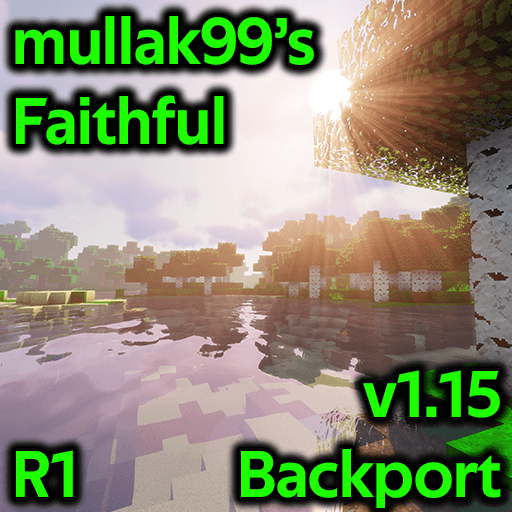
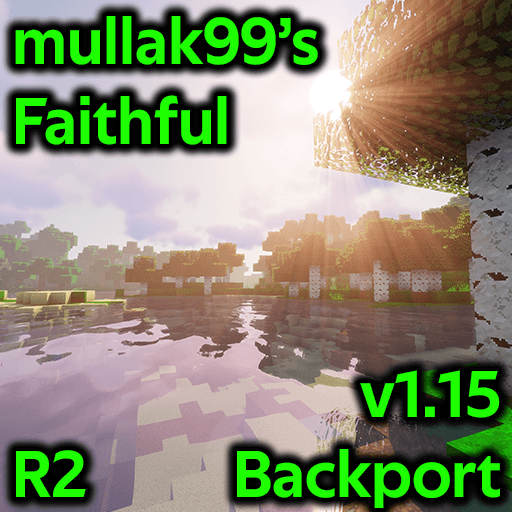
v1.15-R2
- Fixed pack.mcmeta
- Updated Legal.txt

diff --git a/README.md b/README.md
@@ -1,6 +1,6 @@
 # mullak99's Faithful 32x (1.8 Backport)
 
-**Current Branch Version:** _v1.15_BR1_  
+**Current Branch Version:** _v1.15_BR2_  
 
 ## Branch Breakdown
 
